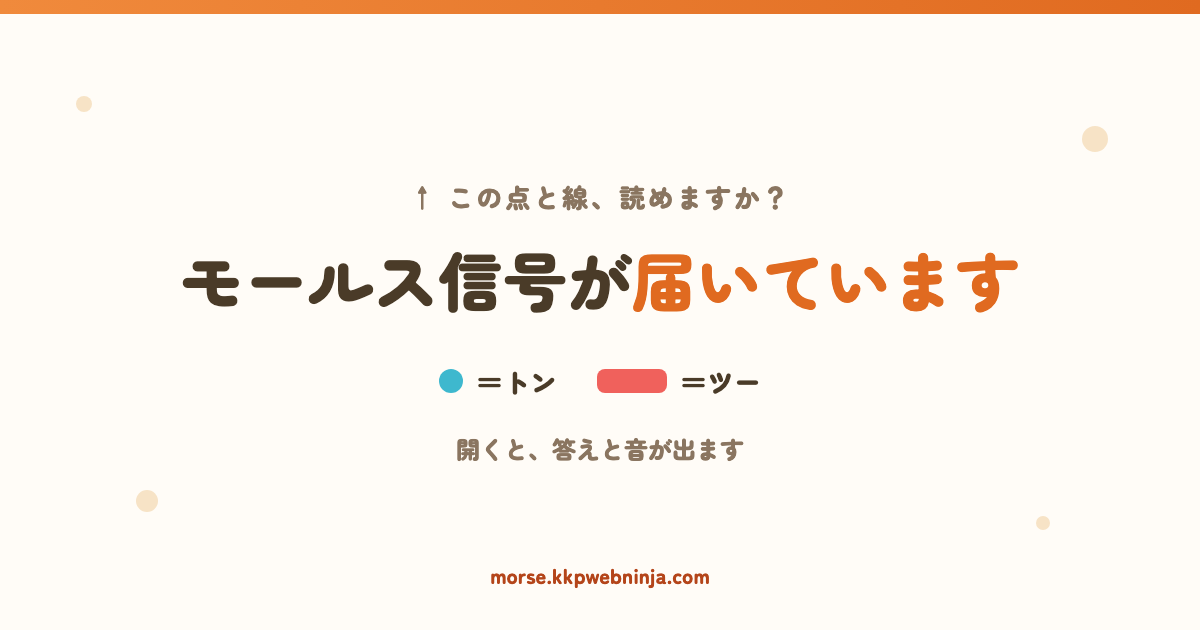
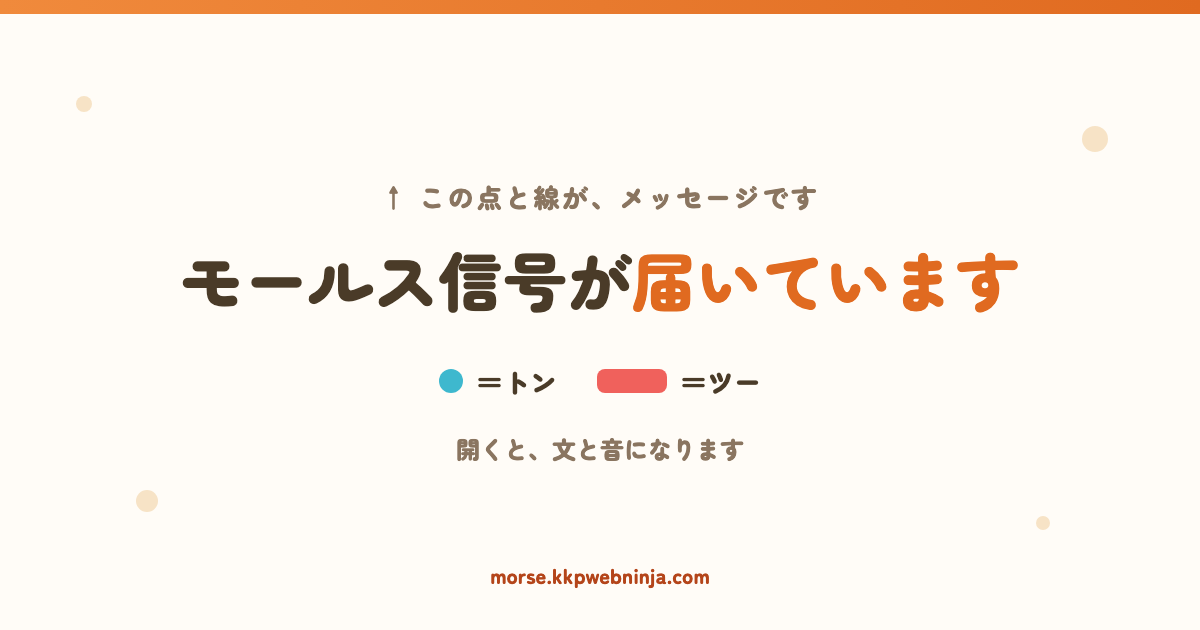
届いたブロックのボタンを実際に効くものにし、煽り文言をやめた
「自分でも打ってみる」は電鍵までスクロールするだけで、何も起きなかった。
読む欄にある「この文を打ってみる」（届いた文を入力欄へ入れる）と
名前が違うだけで役割が重なっており、しかも役に立つのは後者だった。
届いたブロックのボタンも同じ処理にして、押せば文が入力欄に入る。

「読めますか？」は相手を試す言い方なので改めた。
- 投稿本文「モールス信号で書きました。（・＝トン －＝ツー）
  リンクを開くと文と音になります。」
- OGP「↑ この点と線が、メッセージです」「開くと、文と音になります」
- タイトルも「開くと文と音になります」に

送る人が友達に送りやすい言葉にしたかった。試すのではなく、
何を送ったかを伝える文にしている。

Changed region(s): [[0.3083, 0.2714, 0.6783, 0.3317], [0.4625, 0.6937, 0.5858, 0.754]]

diff --git a/index.html b/index.html
@@ -20,14 +20,14 @@
 <meta name="description" content="モールス信号でメッセージを送り合える無料サイト。電鍵で打つか文字を入力すると符号ができ、音を確かめてXやLINEで送れます。届いた符号は貼るだけで文に戻り、そのまま返事も作れます。点と線をたどる分岐図つきで、初めてでも仕組みが分かります。登録不要。">
 <link rel="canonical" href="https://morse.kkpwebninja.com/">
 <meta property="og:type" content="website">
-<meta property="og:title" content="モールス信号が届いています｜開くと答えと音が出ます">
+<meta property="og:title" content="モールス信号が届いています｜開くと文と音になります">
 <meta property="og:description" content="届いた符号を開くだけで、その場で文になります。信号音も鳴らせて、そのまま返事も作れます。点と線をたどる分岐図つきなので、初めてでも打てます。">
 <meta property="og:url" content="https://morse.kkpwebninja.com/">
 <link rel="icon" type="image/png" sizes="32x32" href="/favicon.png">
 <link rel="icon" type="image/png" sizes="192x192" href="/favicon-192.png">
 <link rel="apple-touch-icon" sizes="180x180" href="/apple-touch-icon.png">
 <meta property="og:site_name" content="モールス信号の分岐表">
-<meta property="og:image" content="https://morse.kkpwebninja.com/ogp.png?v=20260904f">
+<meta property="og:image" content="https://morse.kkpwebninja.com/ogp.png?v=20260904g">
 <meta name="twitter:card" content="summary_large_image">
 <meta name="twitter:image" content="https://morse.kkpwebninja.com/ogp.png">
 <script type="application/ld+json">
@@ -798,7 +798,7 @@ function renderRev(){
   const symbols = lastMorse.replace(/__/g, ' / ').replace(/_/g, ' ').replace(/\./g, '・').replace(/-/g, '－');
   // Xは280字まで。URLは何文字でも23字として数えられる。長い文だと符号だけで
   // 溢れるので、本文に載せる符号は入るぶんだけにして、残りはリンクに任せる。
-  const TAIL = '\n\nモールス信号です。読めますか？\n（・＝トン　－＝ツー）\n#モールス信号';
+  const TAIL = '\n\nモールス信号で書きました。\n（・＝トン　－＝ツー）リンクを開くと文と音になります。\n#モールス信号';
   const room = 280 - 23 - 1 - TAIL.length;
   const shown = symbols.length <= room ? symbols : symbols.slice(0, Math.max(0, room - 1)).replace(/[\s/]+$/, '') + '…';
   const txt = shown + TAIL;
@@ -812,7 +812,7 @@ function renderRev(){
   $('shX').href = 'https://twitter.com/intent/tweet?text=' + encodeURIComponent(txt)
                 + '&url=' + encodeURIComponent(shareUrl(lastMorse, lastWa)) + '&via=kkp_webninja';
   $('shL').href = 'https://social-plugins.line.me/lineit/share?url=' + encodeURIComponent(shareUrl(lastMorse, lastWa))
-                + '&text=' + encodeURIComponent(symbols + '\nモールス信号です。読めますか？');
+                + '&text=' + encodeURIComponent(symbols + '\nモールス信号で書きました。リンクを開くと文と音になります');
 }
 
 
@@ -995,12 +995,13 @@ $('dUse').onclick = () => {
     '<div class="got"><div class="sym">' + esc(shown) + '</div>' +
     '<div class="txt">' + esc(read) + '</div></div>' +
     '<div class="row"><button type="button" id="ibPlay">音で聞く</button>' +
-    '<button type="button" id="ibTry">自分でも打ってみる</button></div>' +
+    '<button type="button" id="ibUse">この文を打ってみる</button></div>' +
     '<p class="hint">画面をどこかタップすると、届いた信号がそのまま鳴ります。' +
     '下の分岐表をたどれば、この符号を自分の指で打てます。</p></div>';
   $('ibPlay').onclick = () => { if (!$('sound').checked) $('sound').checked = true;
     const a = ac(); if (a && a.state === 'suspended') a.resume(); playMorseRaw(shown.replace(/[・]/g,'.').replace(/[－]/g,'-'), $('ibPlay')); };
-  $('ibTry').onclick = () => document.querySelector('.key').scrollIntoView({behavior:'smooth', block:'center'});
+  // 読む欄と同じく、届いた文をそのまま入力欄へ入れる（スクロールするだけでは何も起きないため）
+  $('ibUse').onclick = () => $('dUse').click();
   // ブラウザは操作なしに音を鳴らせない。最初のタップで一度だけ鳴らす。
   const once = () => {
     removeEventListener('pointerdown', once, true); removeEventListener('keydown', once, true);
